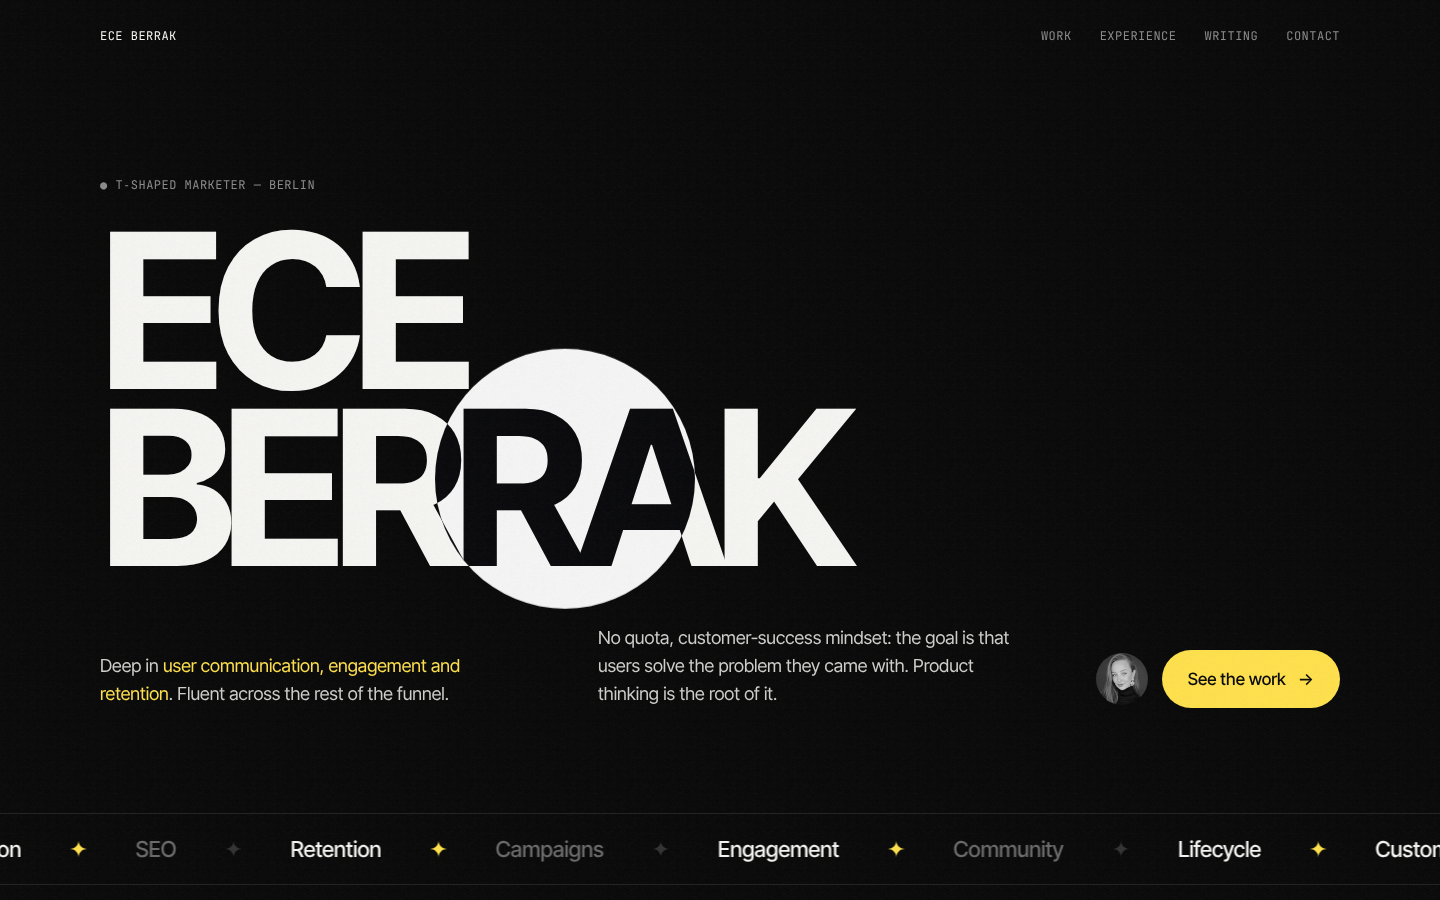
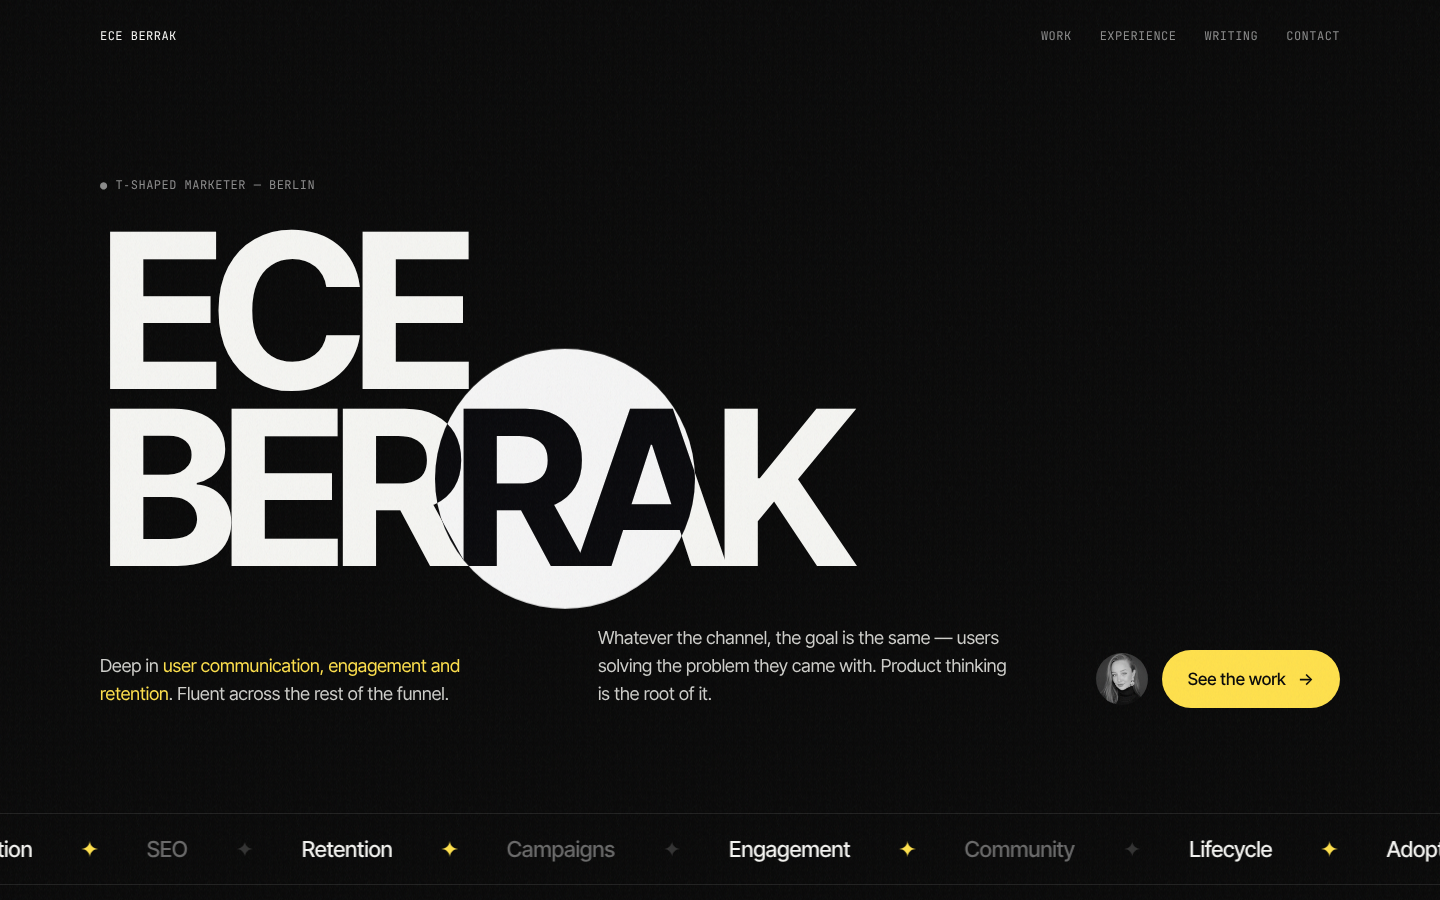
concepts: keep the user-problem-first angle without role-specific labels
Claude-Session: https://claude.ai/code/session_016LQdoHtT1gagq8YtEzWsot

diff --git a/concepts/hero-3-split.html b/concepts/hero-3-split.html
@@ -56,7 +56,7 @@ h1 em{font-family:"Instrument Serif",serif;font-weight:400;letter-spacing:-.01em
       <div>
         <span class="mono">( t‑shaped marketer · berlin )</span>
         <h1 id="h" style="margin-top:28px">Broad across the <em>funnel</em>. Deep <span class="under"><span>where users live.</span><svg viewBox="0 0 200 20" preserveAspectRatio="none"><path d="M2 14 C 50 4, 120 4, 198 12"/></svg></span></h1>
-        <p style="margin-top:32px;max-width:470px;color:#444;font-size:19px">User communication, engagement and retention are my home turf. I work with a customer‑success mindset — no quota, just making sure users solve the problem they came with. Product thinking is the root.</p>
+        <p style="margin-top:32px;max-width:470px;color:#444;font-size:19px">User communication, engagement and retention are my home turf. Whatever the role, the goal stays the same: the user's problem, actually solved. Product thinking is the root.</p>
       </div>
       <div class="stats">
         <div><b data-n="5" data-s=" yrs">0</b><span class="mono">B2B SaaS</span></div>
@@ -101,7 +101,7 @@ h.childNodes.forEach(n=>{if(n.nodeType===3){const f=document.createDocumentFragm
 document.querySelectorAll('[data-n]').forEach(el=>{const n=+el.dataset.n,s=el.dataset.s||'';let t0;const run=t=>{t0??=t;const k=Math.min((t-t0)/1200,1);el.textContent=Math.round(n*(1-Math.pow(1-k,3)))+s;if(k<1)requestAnimationFrame(run)};setTimeout(()=>requestAnimationFrame(run),900)});
 // tree
 const NS='http://www.w3.org/2000/svg',mk=(t,a)=>{const e=document.createElementNS(NS,t);for(const k in a)e.setAttribute(k,a[k]);return e};
-const ticks=[['user communication',415],['customer success',375],['onboarding',335],['engagement',295],['retention',255],['lifecycle',215]];
+const ticks=[['user communication',415],['onboarding',375],['adoption',335],['engagement',295],['retention',255],['lifecycle',215]];
 const tg=document.getElementById('ticks');
 ticks.forEach(([s,y],i)=>{const g=mk('g',{class:'tick'});g.style.animationDelay=(.8+i*.12)+'s';g.append(mk('line',{x1:296,x2:316,y1:y,y2:y,stroke:'#0a0a0a','stroke-width':1}));const t=mk('text',{x:322,y:y+4});t.textContent=s;g.append(t);tg.append(g)});
 const leaves=[['Brand',130,150],['Content',430,140],['SEO',200,80],['Campaigns',360,80],['Community',280,52],['Paid',70,110],['Events',490,100],['Partners',140,40],['Positioning',420,36]];

diff --git a/concepts/hero-1-highlight.html b/concepts/hero-1-highlight.html
@@ -75,8 +75,8 @@ p.lead{margin-top:32px;max-width:520px;font-size:19px;color:#333;opacity:0;anima
         <span class="line"><span>Deep in <span class="hl">user</span></span></span>
         <span class="line"><span><span class="hl">communication.</span></span></span>
       </h1>
-      <div class="mono" style="margin-top:20px;opacity:0;animation:fade .8s .8s forwards">→ engagement · retention · <span class="rot" id="rot" style="color:var(--ink)"><b class="on">customer success</b><b>lifecycle</b><b>onboarding</b></span></div>
-      <p class="lead">I think like a product person and work like customer success. No quota — the job is making sure users actually solve the problem they came with. The rest of the funnel never felt like someone else's job.</p>
+      <div class="mono" style="margin-top:20px;opacity:0;animation:fade .8s .8s forwards">→ engagement · retention · <span class="rot" id="rot" style="color:var(--ink)"><b class="on">adoption</b><b>lifecycle</b><b>onboarding</b></span></div>
+      <p class="lead">I think like a product person and measure success by one thing: did the user solve the problem they came with? The rest of the funnel never felt like someone else's job.</p>
       <div class="cta"><a class="btn dark" href="#">See selected work <span class="arr">→</span></a><a class="btn" href="#">Say hello</a></div>
     </div>
     <div class="t" aria-label="T-shaped skill map">
@@ -86,7 +86,7 @@ p.lead{margin-top:32px;max-width:520px;font-size:19px;color:#333;opacity:0;anima
       </div>
       <div class="stem">
         <div class="left mono">Strategy, positioning,<br>campaigns, community —<br>I can run all of it.</div>
-        <ol id="stem"><li>Onboarding</li><li>Engagement</li><li>Retention</li><li>Customer success</li><li>Product thinking</li></ol>
+        <ol id="stem"><li>Onboarding</li><li>Engagement</li><li>Retention</li><li>Adoption</li><li>Product thinking</li></ol>
         <div class="note"><p><b>The deep bar.</b> Talking to users — in email, in‑product, in person — until their problem is solved, then turning what they said into what we build and say next.</p><p class="mono">roots: product thinking</p></div>
       </div>
     </div>

diff --git a/concepts/hero-2-spotlight.html b/concepts/hero-2-spotlight.html
@@ -54,14 +54,14 @@ h1 .w:nth-child(3){animation-delay:.15s}
     <h1><span class="w">Ece</span><br><span class="w">Berrak</span></h1>
     <div class="row">
       <p>Deep in <em>user communication, engagement and retention</em>. Fluent across the rest of the funnel.</p>
-      <p>No quota, customer‑success mindset: the goal is that users solve the problem they came with. Product thinking is the root of it.</p>
+      <p>Whatever the channel, the goal is the same — users solving the problem they came with. Product thinking is the root of it.</p>
       <div class="me"><img src="../assets/ece.jpg" alt=""><a class="cta" href="#">See the work <span>→</span></a></div>
     </div>
   </header>
 </div>
 <div class="marquee"><div class="track" id="track"></div></div>
 <script>
-const items=[['Brand'],['Content'],['User communication',1],['SEO'],['Retention',1],['Campaigns'],['Engagement',1],['Community'],['Lifecycle',1],['Customer success',1],['Events'],['Product thinking',1],['Partnerships']];
+const items=[['Brand'],['Content'],['User communication',1],['SEO'],['Retention',1],['Campaigns'],['Engagement',1],['Community'],['Lifecycle',1],['Adoption',1],['Events'],['Product thinking',1],['Partnerships']];
 const t=document.getElementById('track');for(let k=0;k<2;k++)items.forEach(([s,d])=>{const e=document.createElement('span');e.textContent=s;if(d)e.className='d';t.append(e)});
 const b=document.getElementById('blob');let tx=innerWidth*.72,ty=innerHeight*.42,x=tx,y=ty;
 addEventListener('pointermove',e=>{tx=e.clientX;ty=e.clientY});
